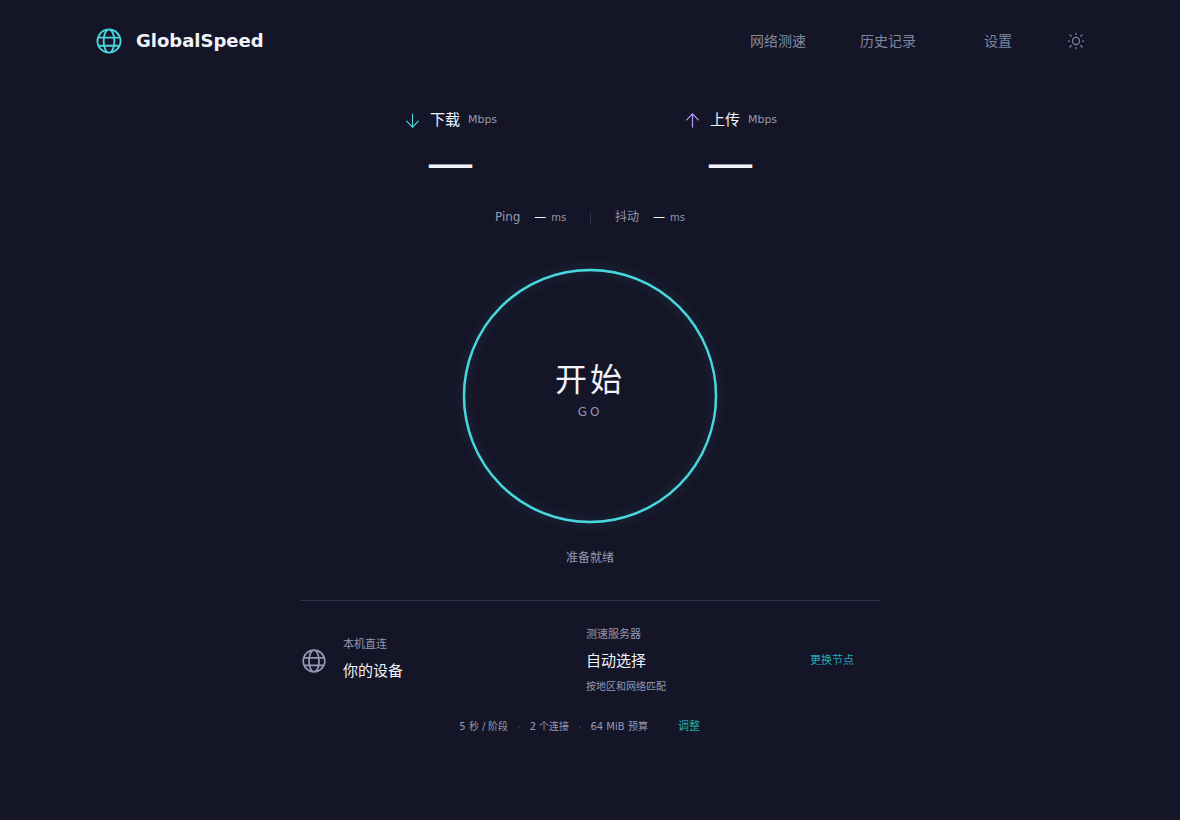
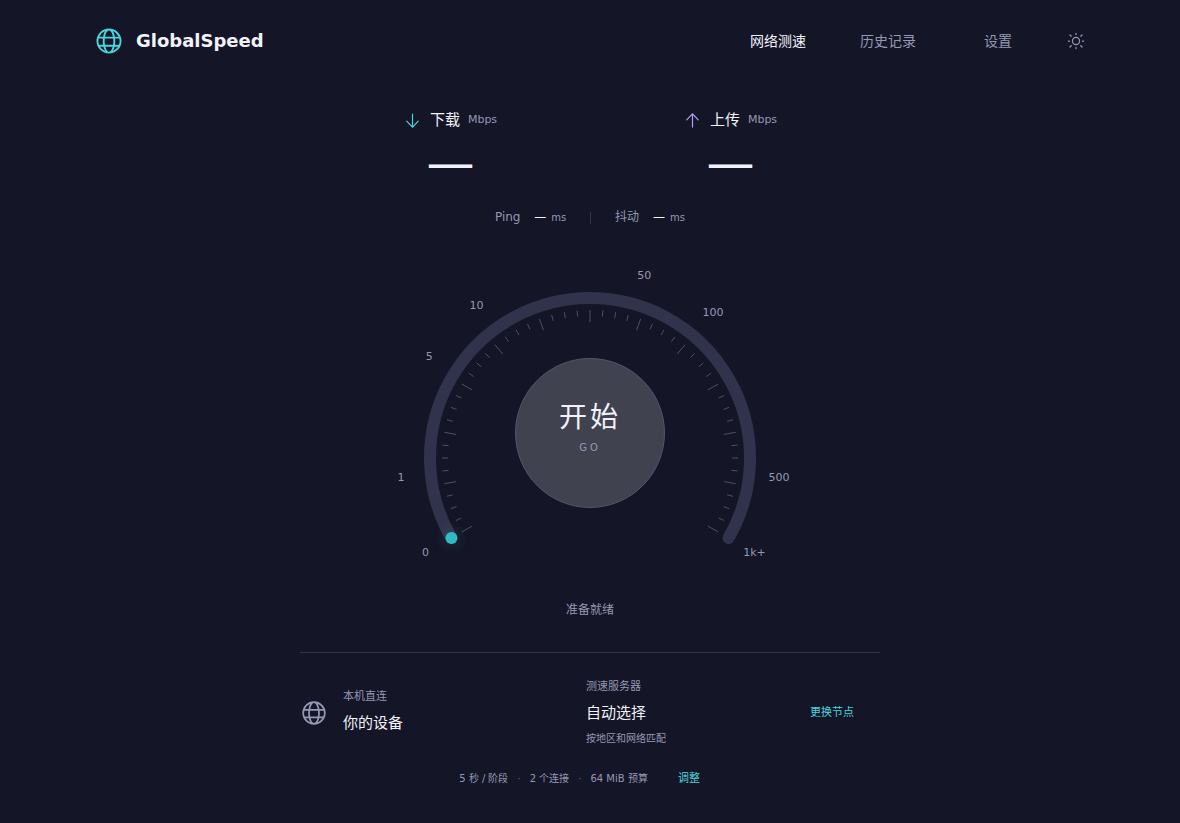
Add animated speedometer and smooth live speed display

diff --git a/frontend/src/main.tsx b/frontend/src/main.tsx
@@ -1,8 +1,10 @@
 import React, {useEffect, useMemo, useState} from 'react';
 import {createRoot} from 'react-dom/client';
 import {FluentProvider,webLightTheme,webDarkTheme,Button,Card,Select,Input,Field,Table,TableHeader,TableRow,TableHeaderCell,TableBody,TableCell,Switch} from '@fluentui/react-components';
-import {ArrowDown24Regular,ArrowUp24Regular,Play24Filled,Dismiss24Regular,Globe24Regular,History24Regular,Settings24Regular,Search24Regular,WeatherMoon24Regular,WeatherSunny24Regular} from '@fluentui/react-icons';
+import {ArrowDown24Regular,ArrowUp24Regular,Dismiss24Regular,Globe24Regular,History24Regular,Search24Regular,WeatherMoon24Regular,WeatherSunny24Regular} from '@fluentui/react-icons';
 import './style.css';
+import {Speedometer} from './Speedometer';
+import {useAnimatedSpeed} from './useAnimatedSpeed';
 
 type Server={hostid:string;hostip:string;hostname:string;location:string;oper:string;pname:string;port:string};
 type Transfer={mbps:number;bytes:number;elapsedMs:number;budgetReached:boolean};
@@ -23,18 +25,18 @@ function App(){
  const [latency,setLatency]=useState<Ping|null>(null);
  const [auto,setAuto]=useState(true);const [autoNode,setAutoNode]=useState<Server|null>(null);
  const [running,setRunning]=useState(false);const [status,setStatus]=useState('准备就绪');const [error,setError]=useState('');
- const [progress,setProgress]=useState<Progress|null>(null);const [result,setResult]=useState<Result|null>(null);const [series,setSeries]=useState<Progress[]>([]);const [tablePage,setTablePage]=useState(0);
+ const [progress,setProgress]=useState<Progress|null>(null);const [result,setResult]=useState<Result|null>(null);const [rates,setRates]=useState<{download?:number;upload?:number}>({});const [tablePage,setTablePage]=useState(0);
  const provinces=useMemo(()=>[...new Set(servers.map(s=>s.pname))],[servers]);
  const filtered=useMemo(()=>servers.filter(s=>(!province||s.pname===province)&&(!operator||s.oper===operator)&&(!search||`${s.hostname} ${s.hostip} ${s.location}`.includes(search))),[servers,province,operator,search]);
  const selected=auto?autoNode:servers.find(s=>s.hostid===serverId);
  useEffect(()=>{if(!filtered.some(s=>s.hostid===serverId))setServerId(filtered[0]?.hostid||'');setTablePage(0)},[filtered]);
- useEffect(()=>{if(running)return;setLatency(null);setResult(null);setProgress(null);setSeries([]);setError('');setStatus('准备就绪')},[serverId]);
+ useEffect(()=>{if(running)return;setLatency(null);setResult(null);setProgress(null);setRates({});setError('');setStatus('准备就绪')},[serverId]);
  useEffect(()=>{document.documentElement.dataset.theme=dark?'dark':'light';localStorage.setItem('theme',dark?'dark':'light')},[dark]);
  useEffect(()=>{
   const app=bridge();if(!app){setStatus('请使用桌面程序启动测速');return}
   app.ListServers().then(setServers).catch(e=>setError(String(e)));app.History().then(setRecords).catch(e=>setError(String(e)));
   const events:{[name:string]:(data:any)=>void}={
-   'speed:progress':(p:Progress)=>{if(p.ping)setLatency(p.ping);if(p.server)setAutoNode(p.server);setProgress(p);setStatus(phaseNames[p.phase]||p.phase);if(p.phase==='download'||p.phase==='upload')setSeries(old=>[...old,p].slice(-120))},
+   'speed:progress':(p:Progress)=>{if(p.ping)setLatency(p.ping);if(p.server)setAutoNode(p.server);setProgress(p);setStatus(phaseNames[p.phase]||p.phase);if(p.phase==='download'||p.phase==='upload')setRates(old=>({...old,[p.phase]:p.mbps}))},
    'speed:result':(r:Result)=>{setResult(r);if(r.ping)setLatency(r.ping);setAutoNode(r.server);setRunning(false);setStatus('测速完成 · 会话已释放');app.History().then(setRecords).catch(e=>setError(String(e)))},
    'speed:error':(e:string)=>{setRunning(false);setProgress(null);setResult(null);setStatus(e.includes('context canceled')?'测速已停止':'测速失败');setError(e==='context canceled'?'':e)},
    'speed:notice':(e:string)=>setError(e),
@@ -42,30 +44,31 @@ function App(){
   Object.entries(events).forEach(([name,handler])=>window.runtime?.EventsOn(name,handler,-1));
   return()=>Object.keys(events).forEach(name=>window.runtime?.EventsOff(name));
  },[]);
- async function start(){const app=bridge();if(!app)return;setRunning(true);if(auto)setAutoNode(null);setLatency(null);setError('');setResult(null);setProgress(null);setSeries([]);setStatus('连接所选节点…');try{await app.StartSpeed({auto,match:{province,operator},serverId:auto?'':serverId,durationSeconds:duration,connections,maxMiB:budget})}catch(e){setRunning(false);setStatus('测速失败');setError(String(e))}}
+ async function start(){const app=bridge();if(!app)return;setRunning(true);if(auto)setAutoNode(null);setLatency(null);setError('');setResult(null);setProgress(null);setRates({});setStatus('连接所选节点…');try{await app.StartSpeed({auto,match:{province,operator},serverId:auto?'':serverId,durationSeconds:duration,connections,maxMiB:budget})}catch(e){setRunning(false);setStatus('测速失败');setError(String(e))}}
  async function stop(){setStatus('正在停止并释放会话…');try{await bridge()?.StopSpeed()}catch(e){setError(String(e))}}
  const shownPing=result?.ping??latency;
- const max=Math.max(1,...series.map(p=>p.mbps));
- const chartPath=(phase:string)=>series.map((p,i)=>({p,i})).filter(x=>x.p.phase===phase).map((x,i)=>`${i?'L':'M'}${x.i*700/Math.max(1,series.length-1)},${115-x.p.mbps/max*100}`).join(' ');
+ const measuring=running&&(progress?.phase==='download'||progress?.phase==='upload');
+ const liveSpeed=useAnimatedSpeed(progress?.mbps??0,measuring,progress?.phase??'idle');
+ const downSpeed=result?.download.mbps??(running?(progress?.phase==='download'?liveSpeed:rates.download):undefined);
+ const upSpeed=result?.upload.mbps??(running?(progress?.phase==='upload'?liveSpeed:rates.upload):undefined);
  const nodeFilters=<div className="filters"><Field label="省份"><Select value={province} disabled={running} onChange={(_,d)=>{setProvince(d.value);setOperator('')}}><option value="">全部省份</option>{provinces.map(p=><option key={p}>{p}</option>)}</Select></Field><Field label="运营商"><Select value={operator} disabled={running} onChange={(_,d)=>setOperator(d.value)}><option value="">全部运营商</option>{['电信','联通','移动','教育网','广电网'].map(o=><option key={o}>{o}</option>)}</Select></Field></div>;
- return <FluentProvider theme={dark?webDarkTheme:webLightTheme} className="app" style={{backgroundColor:'var(--bg)',color:'var(--fg)'}}>
+ return <FluentProvider theme={dark?webDarkTheme:webLightTheme} className="app" style={{backgroundColor:'var(--gs-bg)',color:'var(--gs-fg)'}}>
   <main><header><button className="brand" onClick={()=>setPage('speed')}><Globe24Regular/><span>GlobalSpeed</span></button><nav>{[{id:'speed',name:'网络测速'},{id:'history',name:'历史记录'},{id:'settings',name:'设置'}].map(item=><Button key={item.id} appearance="transparent" className={page===item.id?'nav-selected':''} onClick={()=>setPage(item.id)}>{item.name}</Button>)}<Button appearance="transparent" icon={dark?<WeatherSunny24Regular/>:<WeatherMoon24Regular/>} aria-label="切换主题" onClick={()=>setDark(!dark)}/></nav></header>
   <div className={page==='speed'?'content speed-content':'content secondary-content'}>
   {page!=='speed'&&<div className="page-heading"><h1>{({nodes:'选择测速节点',history:'测速历史',settings:'设置'} as Record<string,string>)[page]}</h1><p>{page==='nodes'?'按地区与运营商筛选节点':page==='history'?'最近 100 次成功测量':'采样参数与界面外观'}</p></div>}
   {error&&<div className="error" role="alert">{error}</div>}
   {page==='speed'&&<>
-   <div className="headline-metrics"><div className="headline-metric download"><span><ArrowDown24Regular/>下载 <small>Mbps</small></span><strong>{number(result?.download.mbps ?? (running?[...series].reverse().find(p=>p.phase==='download')?.mbps:undefined))}</strong></div><div className="headline-metric upload"><span><ArrowUp24Regular/>上传 <small>Mbps</small></span><strong>{number(result?.upload.mbps ?? (running?[...series].reverse().find(p=>p.phase==='upload')?.mbps:undefined))}</strong></div></div>
+   <div className="headline-metrics"><div className="headline-metric download"><span><ArrowDown24Regular/>下载 <small>Mbps</small></span><strong>{number(downSpeed)}</strong></div><div className="headline-metric upload"><span><ArrowUp24Regular/>上传 <small>Mbps</small></span><strong>{number(upSpeed)}</strong></div></div>
    <div className="latency-row"><span title="优先 ICMP；不可用时按原版回退到 TCP，显示均值">Ping{shownPing?` · ${shownPing.method.toUpperCase()}`:''} <b>{number(shownPing?.status===0?shownPing.averageMs:undefined)}</b><small>ms</small></span><i/><span title="按原版算法统计相邻成功样本差值">抖动 <b>{number(shownPing?.status===0?shownPing.jitterMs:undefined)}</b><small>ms</small></span></div>
    <div className={'test-stage '+(running?'is-running':'')}>
-    <svg className="dial" viewBox="0 0 320 320" aria-hidden="true"><circle className="dial-track" cx="160" cy="160" r="144"/><circle className="dial-accent" cx="160" cy="160" r="144"/></svg>
-    {running?<div className="dial-reading"><span>{progress?.phase==='upload'?'上传':progress?.phase==='download'?'下载':'连接中'}</span><strong>{progress?.phase==='download'||progress?.phase==='upload'?number(progress.mbps):'—'}</strong><small>Mbps</small><Button appearance="transparent" icon={<Dismiss24Regular/>} onClick={stop}>停止测速</Button></div>:<button className="go-button" aria-label="开始测速" disabled={(!auto&&!selected)||!bridge()} onClick={start}><span>{result?'再测一次':'开始'}</span><small>{result?'TEST AGAIN':'GO'}</small></button>}
+    <Speedometer value={liveSpeed} active={measuring} upload={progress?.phase==='upload'}/>
+    {running?<div className="dial-reading"><span>{progress?.phase==='upload'?'上传':progress?.phase==='download'?'下载':'连接中'}</span><strong>{progress?.phase==='download'||progress?.phase==='upload'?number(liveSpeed):'—'}</strong><small>Mbps</small><Button appearance="transparent" icon={<Dismiss24Regular/>} onClick={stop}>停止测速</Button></div>:<button className="go-button" aria-label="开始测速" disabled={(!auto&&!selected)||!bridge()} onClick={start}><span>{result?'再测一次':'开始'}</span><small>{result?'TEST AGAIN':'GO'}</small></button>}
    </div>
    <div className="status" role="status">{status}</div>
-   {series.length>0&&<svg className="speed-chart" viewBox="0 0 700 130" role="img" aria-label="下载和上传吞吐曲线"><path className="grid-line" d="M0 115H700"/><path className="download-line" d={chartPath('download')}/><path className="upload-line" d={chartPath('upload')}/></svg>}
    <div className="connection-info"><div className="device-info"><Globe24Regular/><div><span>本机直连</span><strong>你的设备</strong></div></div><div className="server-info"><div><span>测速服务器</span><strong>{selected?.hostname||(auto?'自动选择':'选择节点')}</strong><small>{selected?`${selected.hostip}:${selected.port}`:(auto?'按地区和网络匹配':'606 个运营商节点')}</small></div><Button appearance="transparent" disabled={running} onClick={()=>setPage('nodes')}>更换节点</Button></div></div>
    <div className="test-caption">{duration} 秒 / 阶段 <span>·</span> {connections} 个连接 <span>·</span> {budget} MiB 预算<Button appearance="transparent" size="small" disabled={running} onClick={()=>setPage('settings')}>调整</Button></div>
   </>}
-  {page==='nodes'&&<Card><Button appearance="primary" disabled={running} onClick={()=>{setAuto(true);setAutoNode(null);setLatency(null);setResult(null);setSeries([]);setError('');setStatus('准备就绪');setPage('speed')}}>自动选择节点</Button>{nodeFilters}<Input contentBefore={<Search24Regular/>} placeholder="搜索名称、地址或城市" value={search} onChange={(_,d)=>setSearch(d.value)}/><Table><TableHeader><TableRow>{['节点','地区','运营商','地址',''].map(x=><TableHeaderCell key={x}>{x}</TableHeaderCell>)}</TableRow></TableHeader><TableBody>{filtered.slice(tablePage*30,(tablePage+1)*30).map(s=><TableRow key={s.hostid}><TableCell>{s.hostname}</TableCell><TableCell>{s.pname} · {s.location}</TableCell><TableCell>{s.oper||'其他'}</TableCell><TableCell className="mono">{s.hostip}:{s.port}</TableCell><TableCell><Button size="small" disabled={running} onClick={()=>{setAuto(false);setAutoNode(null);setLatency(null);setResult(null);setSeries([]);setError('');setStatus('准备就绪');setServerId(s.hostid);setPage('speed')}}>选择</Button></TableCell></TableRow>)}</TableBody></Table><div className="pagination"><span>{filtered.length} 个节点 · 第 {tablePage+1} 页</span><Button disabled={tablePage===0} onClick={()=>setTablePage(tablePage-1)}>上一页</Button><Button disabled={(tablePage+1)*30>=filtered.length} onClick={()=>setTablePage(tablePage+1)}>下一页</Button></div></Card>}
+  {page==='nodes'&&<Card><Button appearance="primary" disabled={running} onClick={()=>{setAuto(true);setAutoNode(null);setLatency(null);setResult(null);setRates({});setError('');setStatus('准备就绪');setPage('speed')}}>自动选择节点</Button>{nodeFilters}<Input contentBefore={<Search24Regular/>} placeholder="搜索名称、地址或城市" value={search} onChange={(_,d)=>setSearch(d.value)}/><Table><TableHeader><TableRow>{['节点','地区','运营商','地址',''].map(x=><TableHeaderCell key={x}>{x}</TableHeaderCell>)}</TableRow></TableHeader><TableBody>{filtered.slice(tablePage*30,(tablePage+1)*30).map(s=><TableRow key={s.hostid}><TableCell>{s.hostname}</TableCell><TableCell>{s.pname} · {s.location}</TableCell><TableCell>{s.oper||'其他'}</TableCell><TableCell className="mono">{s.hostip}:{s.port}</TableCell><TableCell><Button size="small" disabled={running} onClick={()=>{setAuto(false);setAutoNode(null);setLatency(null);setResult(null);setRates({});setError('');setStatus('准备就绪');setServerId(s.hostid);setPage('speed')}}>选择</Button></TableCell></TableRow>)}</TableBody></Table><div className="pagination"><span>{filtered.length} 个节点 · 第 {tablePage+1} 页</span><Button disabled={tablePage===0} onClick={()=>setTablePage(tablePage-1)}>上一页</Button><Button disabled={(tablePage+1)*30>=filtered.length} onClick={()=>setTablePage(tablePage+1)}>下一页</Button></div></Card>}
   {page==='history'&&<Card>{records.length?<Table><TableHeader><TableRow>{['时间','节点','下载 Mbps','上传 Mbps','延迟 ms'].map(x=><TableHeaderCell key={x}>{x}</TableHeaderCell>)}</TableRow></TableHeader><TableBody>{records.map((r,i)=><TableRow key={i}><TableCell>{new Date(r.time).toLocaleString()}</TableCell><TableCell>{r.server.hostname}</TableCell><TableCell>{number(r.download.mbps)}</TableCell><TableCell>{number(r.upload.mbps)}</TableCell><TableCell>{number(r.ping?(r.ping.status===0?r.ping.averageMs:undefined):r.httpMedianMs??r.tcpMedianMs)} {r.ping?r.ping.method.toUpperCase():r.httpMedianMs===undefined?'TCP':'HTTP'}</TableCell></TableRow>)}</TableBody></Table>:<div className="empty"><History24Regular/><h2>还没有测速记录</h2><p>完成一次测速后，结果会出现在这里。</p></div>}</Card>}
   {page==='settings'&&<Card className="settings-card"><h2>采样参数</h2><Field label="每阶段时长"><Select disabled={running} value={duration} onChange={(_,d)=>setDuration(Number(d.value))}>{[5,10,15,30].map(n=><option key={n} value={n}>{n} 秒</option>)}</Select></Field><Field label="并发连接"><Select disabled={running} value={connections} onChange={(_,d)=>setConnections(Number(d.value))}>{[1,2,4,6].map(n=><option key={n} value={n}>{n}</option>)}</Select></Field><Field label="总流量预算"><Select disabled={running} value={budget} onChange={(_,d)=>setBudget(Number(d.value))}>{[64,128,256,512].map(n=><option key={n} value={n}>{n} MiB</option>)}</Select></Field><h2>外观</h2><Switch label="深色模式" checked={dark} onChange={(_,d)=>setDark(d.checked)}/><p className="muted">测速直接从设备连接所选运营商。所有历史记录均保存在本机。</p></Card>}
   </div></main>

diff --git a/frontend/src/style.css b/frontend/src/style.css
@@ -1,1 +1,5 @@
-*{box-sizing:border-box}body{margin:0;font-family:"Segoe UI Variable","Segoe UI",system-ui,"PingFang SC",sans-serif}button,input,select{font:inherit}.app{--bg:#f8f9fc;--fg:#17213d;--muted:#68738c;--line:#dce2ed;--accent:#007d95;--upload:#875bc9;min-height:100vh;background:var(--bg);color:var(--fg)}[data-theme=dark] .app{--bg:#141526;--fg:#f1f2fa;--muted:#9598b4;--line:#30334b;--accent:#49d5dc;--upload:#b89afa}main{width:100%;min-height:100vh}header{height:82px;max-width:1080px;margin:auto;display:flex;align-items:center;justify-content:space-between;padding:0 38px}header nav{display:flex;gap:14px;align-items:center}header nav button{color:var(--muted)!important;font-weight:400!important}header nav .nav-selected{color:var(--fg)!important}.brand{background:none;border:0;color:var(--fg);display:flex;align-items:center;gap:12px;text-align:left;cursor:pointer;font-size:18px;font-weight:650}.brand>svg{width:30px;height:30px;color:var(--accent)}.brand small{display:block;font-size:8px;letter-spacing:2.4px;color:var(--muted);margin-top:2px}.content{max-width:1000px;padding:24px 38px 32px;margin:auto}.speed-content{max-width:800px;padding-top:28px}.headline-metrics{display:flex;justify-content:center;gap:100px;text-align:center}.headline-metric{min-width:180px}.headline-metric>span{display:flex;align-items:center;justify-content:center;gap:8px;font-size:15px}.headline-metric svg{width:19px;height:19px;color:var(--accent)}.headline-metric.upload svg{color:var(--upload)}.headline-metric small{font-size:11px;color:var(--muted)}.headline-metric strong{display:block;font-size:48px;line-height:1.4;font-weight:400;font-variant-numeric:tabular-nums;letter-spacing:-1px}.latency-row{display:flex;justify-content:center;align-items:center;gap:24px;color:var(--muted);font-size:12px;margin-top:10px}.latency-row b{color:var(--fg);font-weight:500;margin-left:10px}.latency-row small{margin-left:5px;font-size:10px}.latency-row i{height:12px;width:1px;background:var(--line)}.test-stage{width:280px;height:280px;position:relative;margin:28px auto 12px;display:grid;place-items:center}.dial{width:100%;height:100%;position:absolute;inset:0;pointer-events:none;transform:rotate(-90deg)}.dial-track{stroke:var(--line);stroke-width:2;fill:none}.dial-accent{stroke:var(--accent);stroke-width:3;fill:none;stroke-dasharray:905 905;filter:drop-shadow(0 0 6px color-mix(in srgb,var(--accent) 25%,transparent))}.go-button{width:calc(100% - 32px);height:calc(100% - 32px);border:0;border-radius:50%;background:transparent;color:var(--fg);display:flex;flex-direction:column;align-items:center;justify-content:center;cursor:pointer;transition:background .2s}.go-button:hover{background:color-mix(in srgb,var(--accent) 6%,transparent)}.go-button:focus-visible{outline:2px solid var(--accent);outline-offset:-8px}.go-button:disabled{cursor:default;opacity:.4}.go-button span{font-size:32px;font-weight:400;letter-spacing:3px}.go-button small{font-size:12px;letter-spacing:3px;color:var(--muted);margin-top:12px}.is-running .dial-accent{stroke-dasharray:250 655;animation:orbit 2s linear infinite;transform-origin:160px 160px}@keyframes orbit{to{transform:rotate(360deg)}}@media(prefers-reduced-motion:reduce){.is-running .dial-accent{animation:none}}.dial-reading{position:relative;display:flex;align-items:center;flex-direction:column;gap:6px}.dial-reading>span{font-size:13px;color:var(--muted)}.dial-reading strong{font-size:46px;font-weight:400;font-variant-numeric:tabular-nums}.dial-reading>small{font-size:12px;color:var(--muted)}.dial-reading button{color:var(--muted)!important;font-size:12px;margin-top:12px}.status{text-align:center;min-height:22px;font-size:12px;color:var(--muted)}.speed-chart{display:block;width:100%;height:65px;max-width:500px;margin:10px auto 0}.grid-line{stroke:var(--line);fill:none}.download-line{stroke:var(--accent);stroke-width:3;fill:none;stroke-linejoin:round}.upload-line{stroke:var(--upload);stroke-width:3;fill:none;stroke-linejoin:round}.connection-info{display:grid;grid-template-columns:1fr 1.25fr;gap:50px;max-width:580px;margin:30px auto 0;padding-top:24px;border-top:1px solid var(--line)}.device-info{display:flex;align-items:center;gap:15px}.device-info>svg{color:var(--muted);width:28px;height:28px}.connection-info span,.connection-info small{display:block;font-size:11px;color:var(--muted)}.connection-info strong{display:block;font-size:15px;font-weight:500;margin:6px 0}.connection-info small{font-size:10px}.server-info{display:flex;align-items:center;justify-content:space-between;gap:8px}.server-info button,.test-caption button{color:var(--accent)!important;font-size:11px!important;font-weight:400!important}.test-caption{display:flex;align-items:center;justify-content:center;gap:9px;color:var(--muted);font-size:10px;margin-top:18px}.test-caption span{opacity:.6}.secondary-content{padding-top:35px}.page-heading{margin-bottom:28px}h1{font-size:25px;font-weight:500;margin:0 0 10px}.page-heading p{font-size:12px;color:var(--muted);margin:0}h2{font-size:15px;font-weight:500;margin:0}.filters{display:flex;gap:16px;margin-bottom:10px}.filters>*{flex:1}.secondary-content>div[class*="fui-Card"]{padding:24px;background:transparent;border:1px solid var(--line);box-shadow:none}.settings-card{max-width:600px;margin:auto;gap:22px!important}.muted{font-size:12px;line-height:1.8;color:var(--muted)}.pagination{display:flex;align-items:center;gap:8px;margin-top:14px;font-size:12px}.pagination span{margin-right:auto;color:var(--muted)}.mono{font-family:ui-monospace,monospace;font-size:12px}.empty{text-align:center;padding:65px 20px;color:var(--muted)}.empty svg{width:36px;height:36px;margin-bottom:20px}.empty p{font-size:12px}.error{border:1px solid #a85065;background:color-mix(in srgb,#a85065 10%,var(--bg));border-radius:8px;padding:12px 16px;color:var(--fg);font-size:12px;overflow-wrap:anywhere;margin-bottom:20px}@media(max-width:700px){header{padding:0 20px}header nav{gap:0}.brand small{display:none}.content{padding-left:20px;padding-right:20px}.headline-metrics{gap:30px}.headline-metric{min-width:130px}.connection-info{gap:20px}.headline-metric strong{font-size:40px}}
+*{box-sizing:border-box}body{margin:0;font-family:"Segoe UI Variable","Segoe UI",system-ui,"PingFang SC",sans-serif}button,input,select{font:inherit}.app{--gs-bg:#f8f9fc;--gs-fg:#17213d;--gs-muted:#68738c;--gs-line:#dce2ed;--gs-accent:#007d95;--gs-upload:#875bc9;min-height:100vh;background:var(--gs-bg);color:var(--gs-fg)}[data-theme=dark] .app{--gs-bg:#141526;--gs-fg:#f1f2fa;--gs-muted:#9598b4;--gs-line:#30334b;--gs-accent:#49d5dc;--gs-upload:#b89afa}main{width:100%;min-height:100vh}header{height:82px;max-width:1080px;margin:auto;display:flex;align-items:center;justify-content:space-between;padding:0 38px}header nav{display:flex;gap:14px;align-items:center}header nav button{color:var(--gs-muted)!important;font-weight:400!important}header nav .nav-selected{color:var(--gs-fg)!important}.brand{background:none;border:0;color:var(--gs-fg);display:flex;align-items:center;gap:12px;text-align:left;cursor:pointer;font-size:18px;font-weight:650}.brand>svg{width:30px;height:30px;color:var(--gs-accent)}.brand small{display:block;font-size:8px;letter-spacing:2.4px;color:var(--gs-muted);margin-top:2px}.content{max-width:1000px;padding:24px 38px 32px;margin:auto}.speed-content{max-width:800px;padding-top:28px}.headline-metrics{display:flex;justify-content:center;gap:100px;text-align:center}.headline-metric{min-width:180px}.headline-metric>span{display:flex;align-items:center;justify-content:center;gap:8px;font-size:15px}.headline-metric svg{width:19px;height:19px;color:var(--gs-accent)}.headline-metric.upload svg{color:var(--gs-upload)}.headline-metric small{font-size:11px;color:var(--gs-muted)}.headline-metric strong{display:block;font-size:48px;line-height:1.4;font-weight:400;font-variant-numeric:tabular-nums;letter-spacing:-1px}.latency-row{display:flex;justify-content:center;align-items:center;gap:24px;color:var(--gs-muted);font-size:12px;margin-top:10px}.latency-row b{color:var(--gs-fg);font-weight:500;margin-left:10px}.latency-row small{margin-left:5px;font-size:10px}.latency-row i{height:12px;width:1px;background:var(--gs-line)}.test-stage{width:480px;max-width:100%;height:340px;position:relative;margin:20px auto 2px;display:grid;place-items:center}.speedometer{width:100%;height:auto;position:absolute;inset:0;pointer-events:none;--gs-dial-color:var(--gs-accent)}.upload-dial{--gs-dial-color:var(--gs-upload)}.gauge-track{fill:none;stroke:var(--gs-line);stroke-width:12;stroke-linecap:round}.gauge-fill{fill:none;stroke:var(--gs-dial-color);stroke-width:12;stroke-linecap:round;filter:drop-shadow(0 0 7px color-mix(in srgb,var(--gs-dial-color) 25%,transparent));transition:stroke .25s}.gauge-tick{stroke:var(--gs-muted);stroke-width:1;opacity:.45}.gauge-label{fill:var(--gs-muted);font-size:11px;text-anchor:middle;dominant-baseline:middle}.gauge-needle line{stroke:var(--gs-dial-color);stroke-width:2.5;stroke-linecap:round}.gauge-needle circle{fill:var(--gs-dial-color)}.go-button{position:relative;width:150px;height:150px;margin-top:30px;border:1px solid var(--gs-line);border-radius:50%;background:var(--gs-bg);color:var(--gs-fg);display:flex;flex-direction:column;align-items:center;justify-content:center;cursor:pointer;transition:background .2s,border-color .2s}.go-button:hover{background:color-mix(in srgb,var(--gs-accent) 6%,var(--gs-bg));border-color:var(--gs-accent)}.go-button:focus-visible{outline:2px solid var(--gs-accent);outline-offset:5px}.go-button:disabled{cursor:default;opacity:.4}.go-button span{font-size:28px;font-weight:400;letter-spacing:3px}.go-button small{font-size:10px;letter-spacing:3px;color:var(--gs-muted);margin-top:10px}.dial-reading{position:absolute;top:218px;left:50%;transform:translateX(-50%);min-width:200px;display:flex;align-items:center;flex-direction:column;gap:2px}.dial-reading>span{font-size:11px;color:var(--gs-muted)}.dial-reading strong{font-size:40px;line-height:1.2;font-weight:400;font-variant-numeric:tabular-nums}.dial-reading>small{font-size:11px;color:var(--gs-muted)}.dial-reading button{color:var(--gs-muted)!important;font-size:11px;margin-top:4px;min-height:24px!important;padding:2px 8px!important}.status{margin-top:12px;text-align:center;min-height:22px;font-size:12px;color:var(--gs-muted)}.connection-info{display:grid;grid-template-columns:1fr 1.25fr;gap:50px;max-width:580px;margin:30px auto 0;padding-top:24px;border-top:1px solid var(--gs-line)}.device-info{display:flex;align-items:center;gap:15px}.device-info>svg{color:var(--gs-muted);width:28px;height:28px}.connection-info span,.connection-info small{display:block;font-size:11px;color:var(--gs-muted)}.connection-info strong{display:block;font-size:15px;font-weight:500;margin:6px 0}.connection-info small{font-size:10px}.server-info{display:flex;align-items:center;justify-content:space-between;gap:8px}.server-info button,.test-caption button{color:var(--gs-accent)!important;font-size:11px!important;font-weight:400!important}.test-caption{display:flex;align-items:center;justify-content:center;gap:9px;color:var(--gs-muted);font-size:10px;margin-top:18px}.test-caption span{opacity:.6}.secondary-content{padding-top:35px}.page-heading{margin-bottom:28px}h1{font-size:25px;font-weight:500;margin:0 0 10px}.page-heading p{font-size:12px;color:var(--gs-muted);margin:0}h2{font-size:15px;font-weight:500;margin:0}.filters{display:flex;gap:16px;margin-bottom:10px}.filters>*{flex:1}.secondary-content>div[class*="fui-Card"]{padding:24px;background:transparent;border:1px solid var(--gs-line);box-shadow:none}.settings-card{max-width:600px;margin:auto;gap:22px!important}.muted{font-size:12px;line-height:1.8;color:var(--gs-muted)}.pagination{display:flex;align-items:center;gap:8px;margin-top:14px;font-size:12px}.pagination span{margin-right:auto;color:var(--gs-muted)}.mono{font-family:ui-monospace,monospace;font-size:12px}.empty{text-align:center;padding:65px 20px;color:var(--gs-muted)}.empty svg{width:36px;height:36px;margin-bottom:20px}.empty p{font-size:12px}.error{border:1px solid #a85065;background:color-mix(in srgb,#a85065 10%,var(--gs-bg));border-radius:8px;padding:12px 16px;color:var(--gs-fg);font-size:12px;overflow-wrap:anywhere;margin-bottom:20px}@media(max-width:700px){header{padding:0 20px}header nav{gap:0}.brand small{display:none}.content{padding-left:20px;padding-right:20px}.headline-metrics{gap:30px}.headline-metric{min-width:130px}.connection-info{gap:20px}.headline-metric strong{font-size:40px}}
+
+@media(max-width:540px){.test-stage{height:300px}.dial-reading{top:200px}.dial-reading strong{font-size:34px}}
+
+.go-button{background-color:var(--gs-bg)!important}.go-button:hover{background-color:color-mix(in srgb,var(--gs-accent) 6%,var(--gs-bg))!important}

diff --git a/frontend/src/Speedometer.tsx b/frontend/src/Speedometer.tsx
@@ -1,0 +1,17 @@
+const MAX=1000;
+const fraction=(speed:number)=>Math.log1p(Math.max(0,Math.min(MAX,speed)))/Math.log1p(MAX);
+const point=(angle:number,radius:number)=>{const rad=angle*Math.PI/180;return {x:240+radius*Math.cos(rad),y:210+radius*Math.sin(rad)}};
+const angle=(speed:number)=>150+240*fraction(speed);
+const arc=(()=>{const start=point(150,160),end=point(390,160);return `M${start.x},${start.y} A160,160 0 1 1 ${end.x},${end.y}`})();
+type Props={value:number;active:boolean;upload:boolean};
+export function Speedometer({value,active,upload}:Props){
+ const ticks=[0,1,5,10,50,100,500,1000];
+ const needle=point(angle(active?value:0),143);
+ return <svg className={'speedometer '+(upload?'upload-dial':'')} viewBox="0 0 480 370" role="img" aria-label="实时速度表" data-speed={value.toFixed(3)}>
+  <path className="gauge-track" d={arc} pathLength="100"/>
+  <path className="gauge-fill" d={arc} pathLength="100" strokeDasharray={`${active?fraction(value)*100:0} 100`}/>
+  {Array.from({length:49},(_,i)=>{const outer=point(150+i*5,148),inner=point(150+i*5,i%4===0?136:142);return <line key={i} className="gauge-tick" x1={inner.x} y1={inner.y} x2={outer.x} y2={outer.y}/>})}
+  {ticks.map(speed=>{const pos=point(angle(speed),190);return <text key={speed} className="gauge-label" x={pos.x} y={pos.y}>{speed===1000?'1k+':speed}</text>})}
+  {active&&<g className="gauge-needle"><line x1="240" y1="210" x2={needle.x} y2={needle.y}/><circle cx="240" cy="210" r="5"/></g>}
+ </svg>
+}

diff --git a/frontend/src/useAnimatedSpeed.ts b/frontend/src/useAnimatedSpeed.ts
@@ -1,0 +1,25 @@
+import {useEffect,useRef,useState} from 'react';
+
+// Presentation only: original samples and final results are not modified.
+export function useAnimatedSpeed(target:number,active:boolean,phase:string){
+ const [value,setValue]=useState(0);
+ const current=useRef(0);
+ const previousPhase=useRef(phase);
+ useEffect(()=>{
+  if(previousPhase.current!==phase || !active){current.current=0;setValue(0);previousPhase.current=phase;}
+  if(!active)return;
+  const reduced=matchMedia('(prefers-reduced-motion: reduce)').matches;
+  const goal=Number.isFinite(target)?Math.max(0,target):0;
+  if(reduced){current.current=goal;setValue(goal);return;}
+  let frame=0,last=performance.now();
+  const animate=(now:number)=>{
+   const elapsed=Math.min(64,now-last);last=now;
+   current.current+=(goal-current.current)*(1-Math.exp(-elapsed/220));
+   if(Math.abs(goal-current.current)<.005){current.current=goal;setValue(goal);return;}
+   setValue(current.current);frame=requestAnimationFrame(animate);
+  };
+  frame=requestAnimationFrame(animate);
+  return()=>cancelAnimationFrame(frame);
+ },[target,active,phase]);
+ return value;
+}

diff --git a/README.md b/README.md
@@ -2,9 +2,11 @@
 
 跨平台网络测速工具，提供 Windows、Linux、macOS 桌面端和 CLI。使用本机 Go 核心直接连接测速节点，支持下载、上传、Ping 和本地历史记录。
 
-桌面使用 Wails v2、React 和 Fluent UI，采用简洁的圆形开始按钮布局，支持深浅主题。
+桌面使用 Wails v2、React 和 Fluent UI，采用弧形刻度与指针速度表布局，支持深浅主题。
 
 ![GlobalSpeed desktop](docs/desktop-preview.png)
+
+实时读数与指针使用逐帧平滑动画；最终测速数值和历史记录使用原始测量结果。
 
 ## 功能
 
